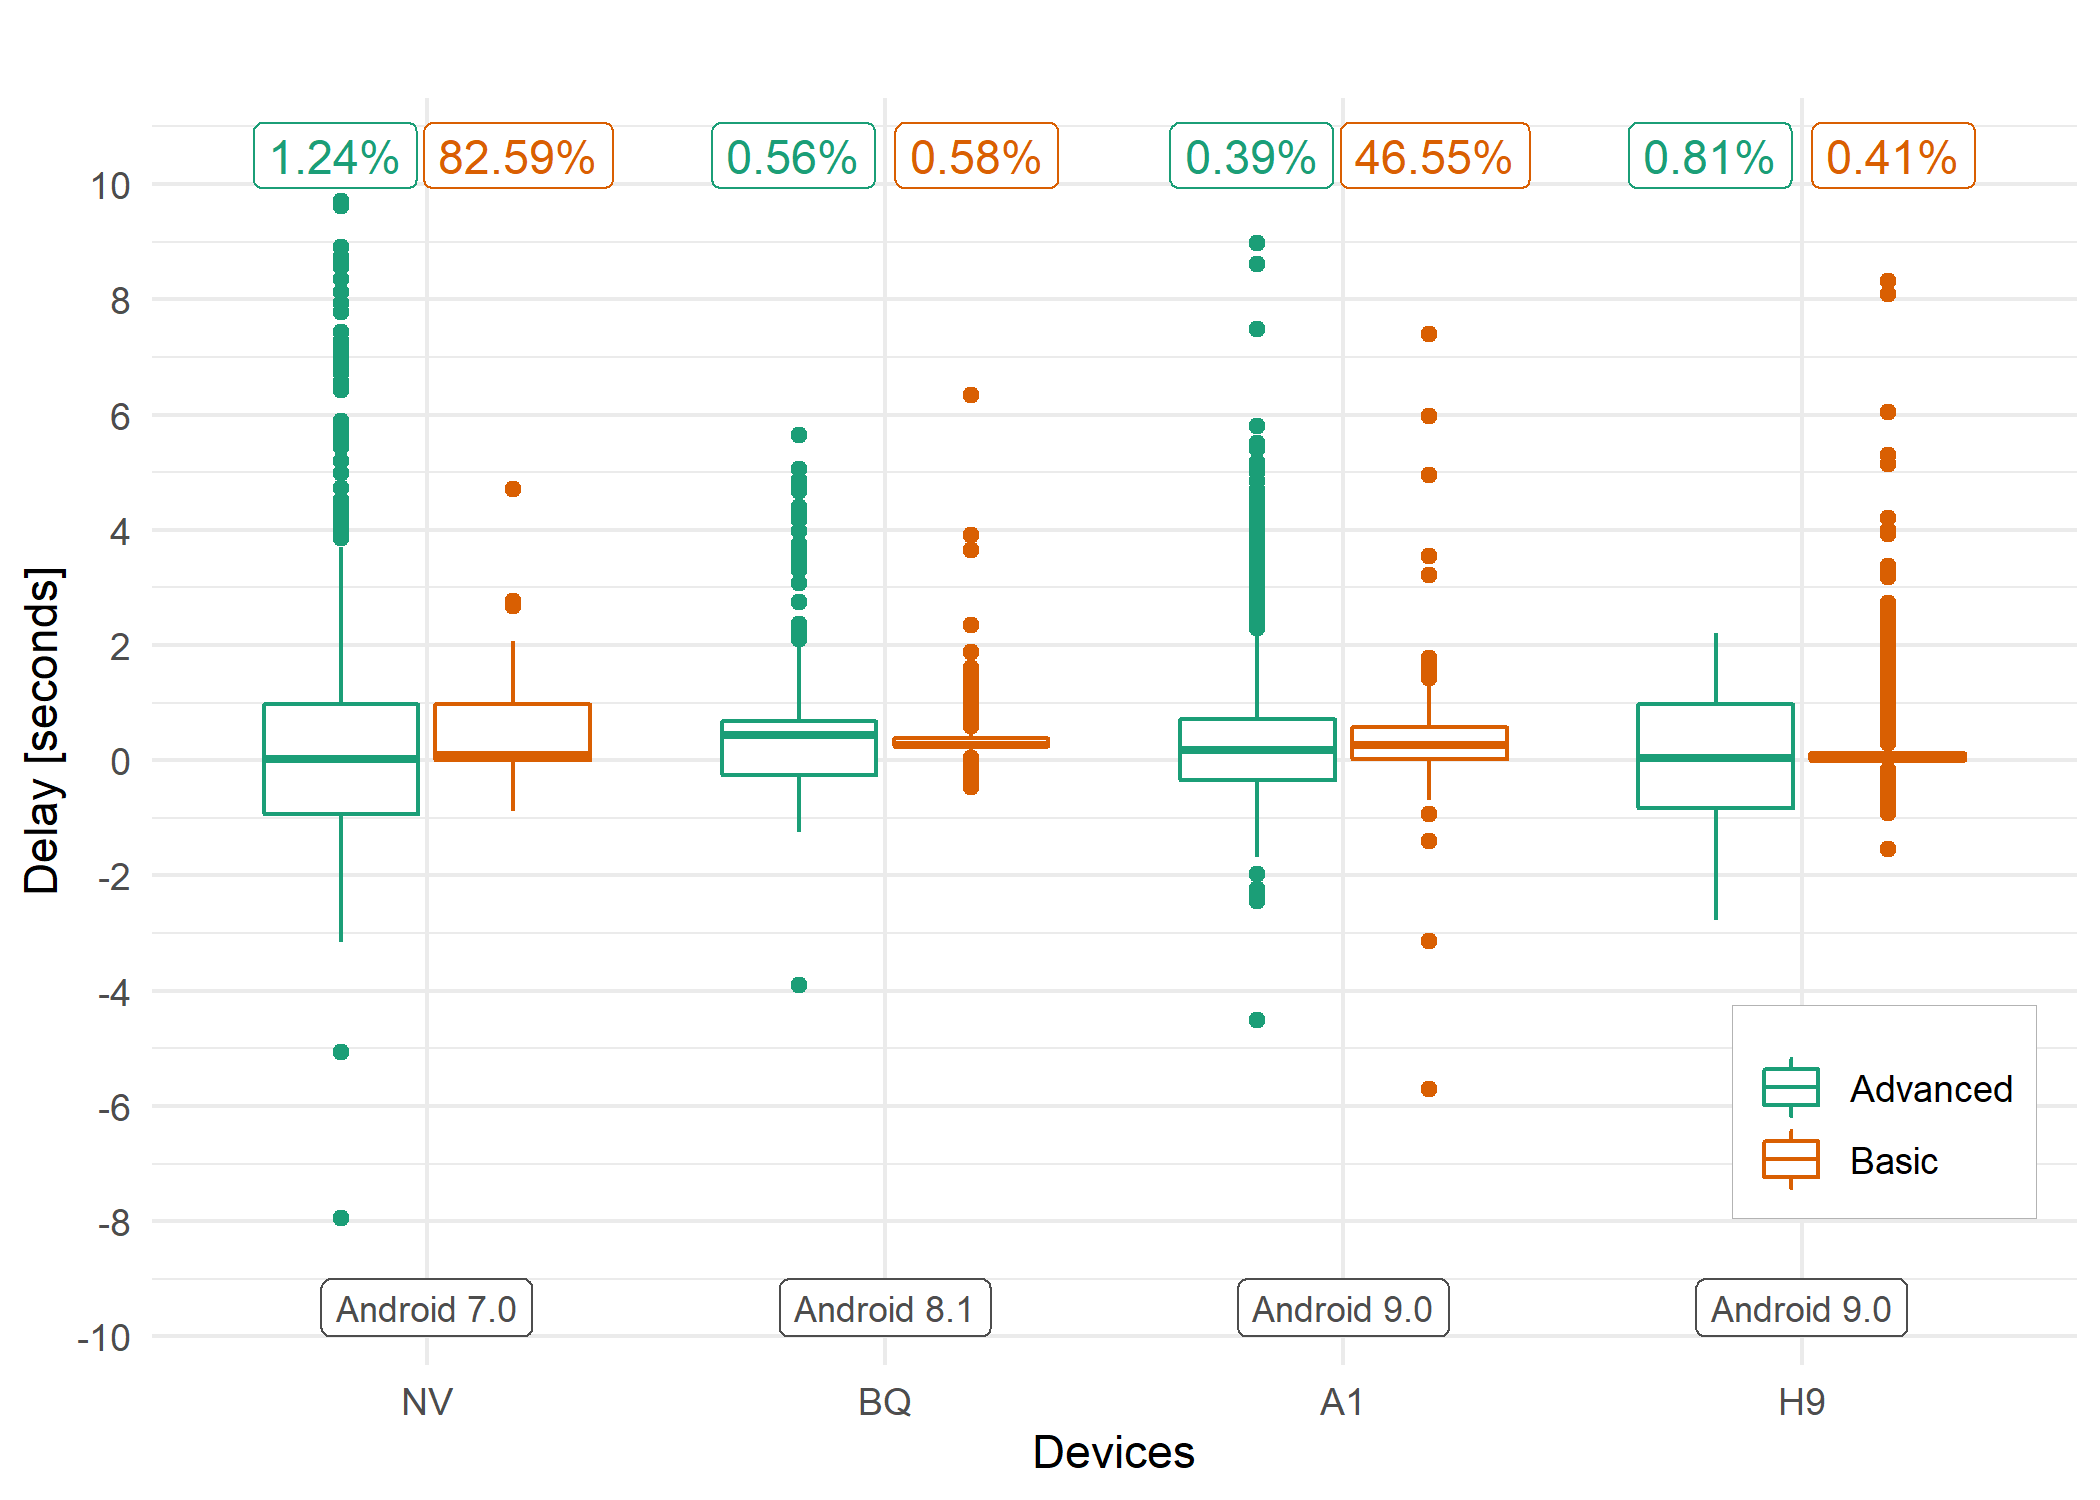
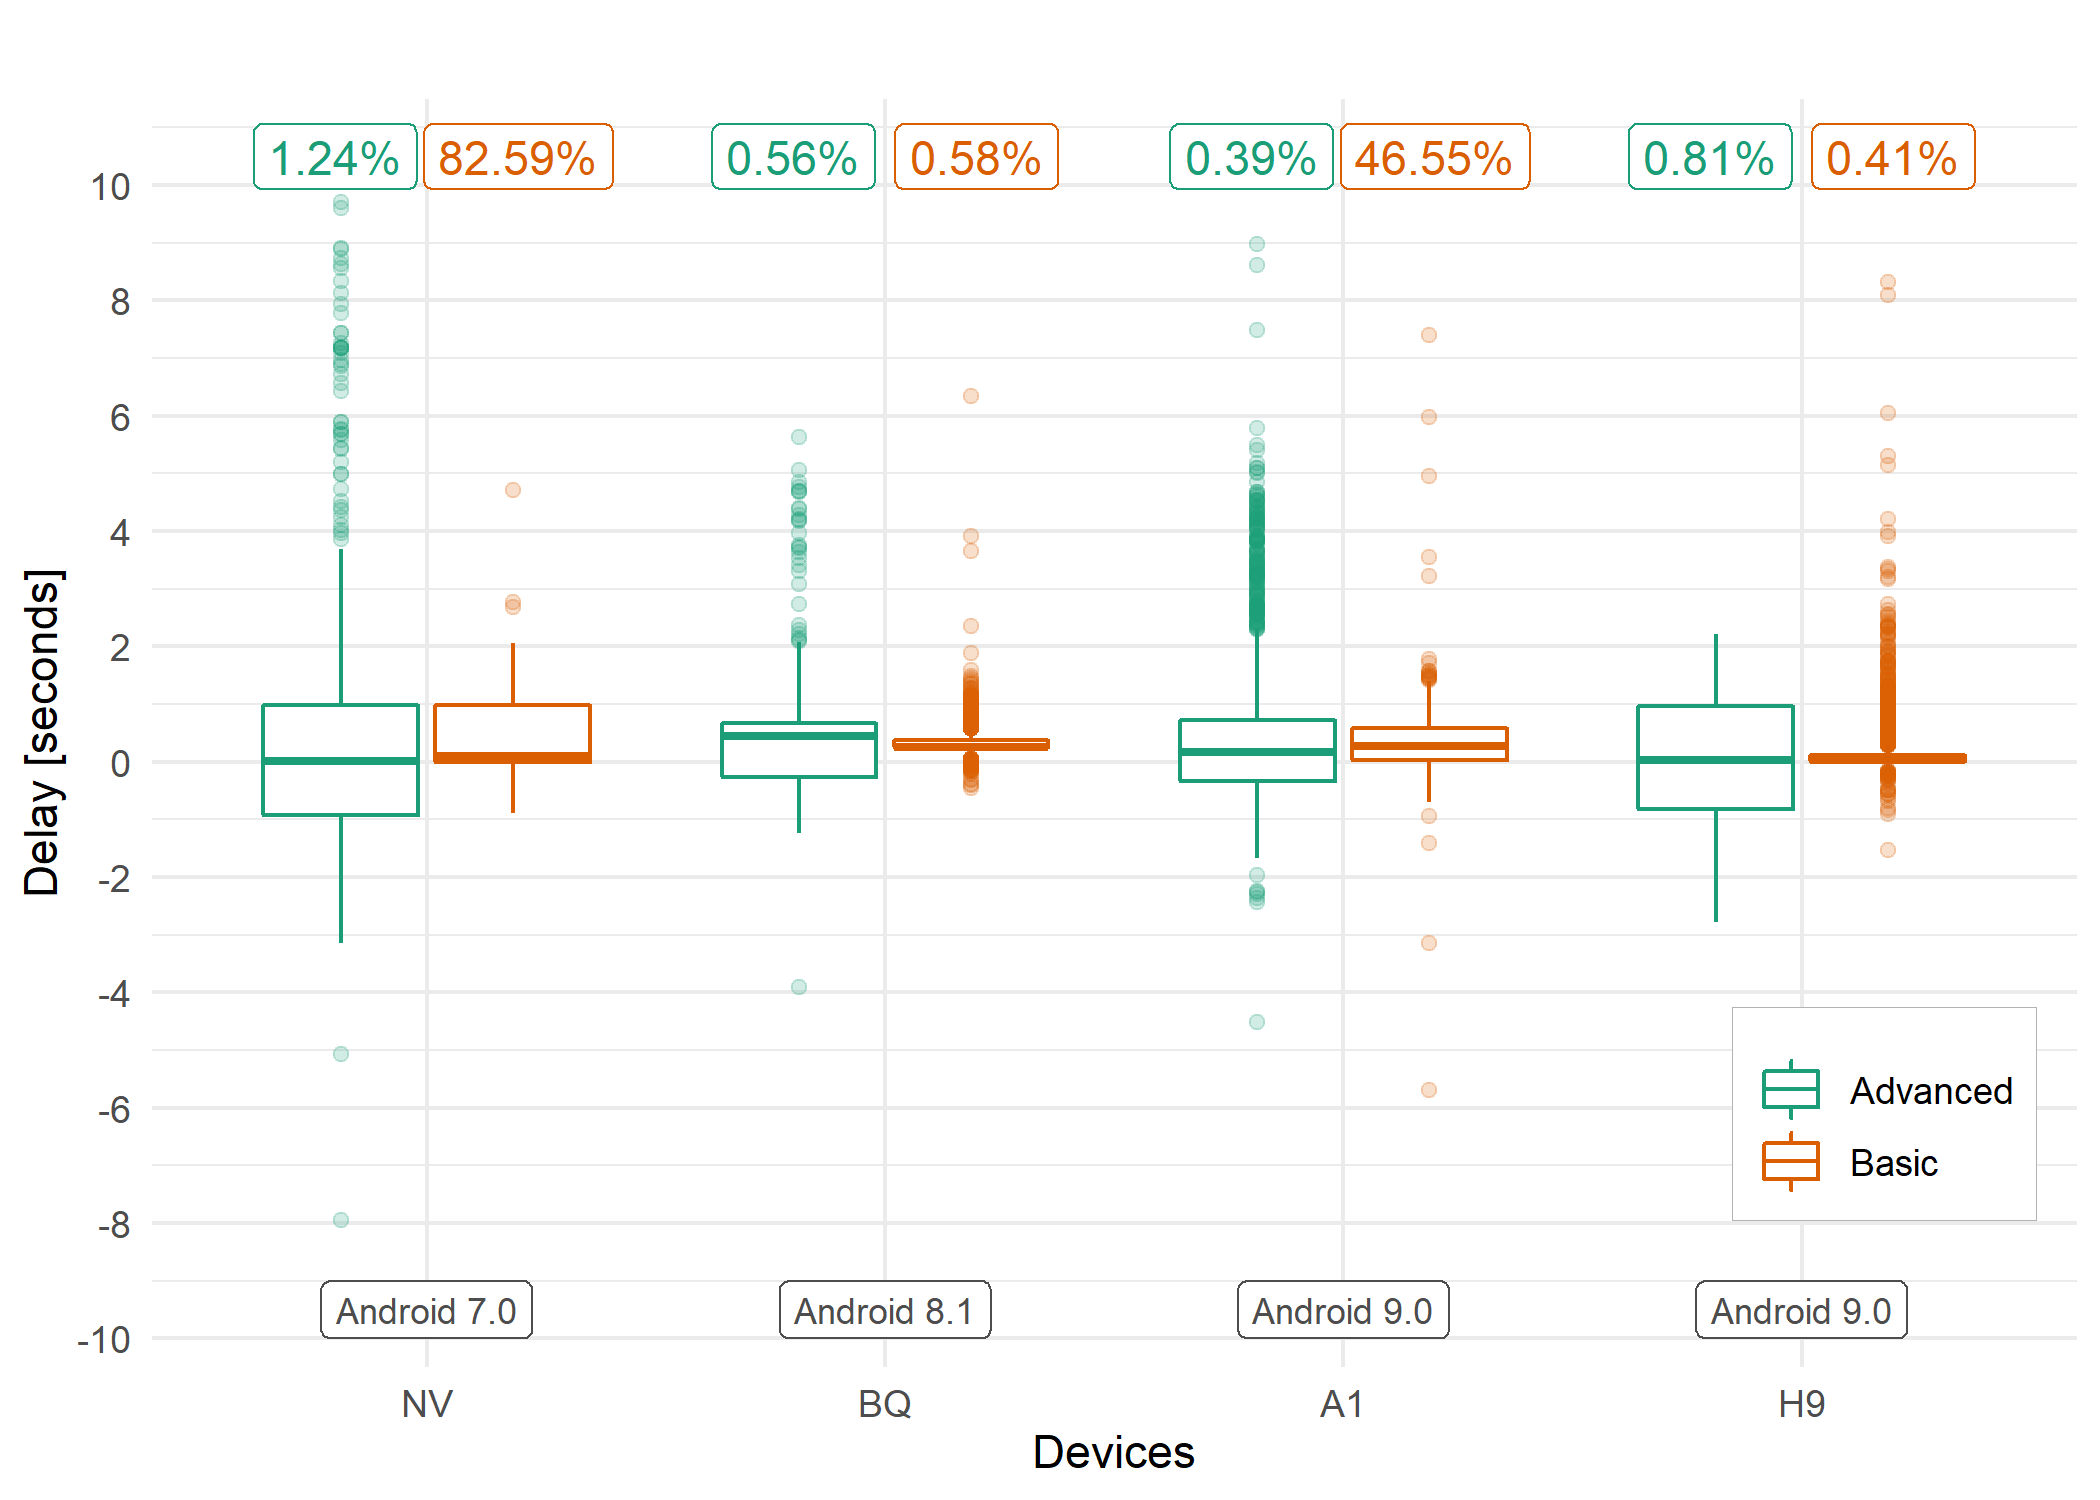
set transparency to boxplot outliers

diff --git a/reports/symptoms-scheduler-experiment-3-IEEETMC.html b/reports/symptoms-scheduler-experiment-3-IEEETMC.html
@@ -194,7 +194,7 @@ summary {
 
 <h1 class="title toc-ignore">Symptoms - ‘NativeScript Task Dispatcher’ - IEEE TMC</h1>
 <h4 class="author">Carlos Granell, Miguel Matey, Alberto González, Sven Casteleyn - <a href="http://geotec.uji.es/projects/SyMptOMS/">SyMptOMS team</a>, <a href="http://geotec.uji.es/">GEOTEC research group</a></h4>
-<h4 class="date">19/2/2021 (updated 21 febrero, 2021)</h4>
+<h4 class="date">19/2/2021 (updated 22 febrero, 2021)</h4>
 
 </div>
 
